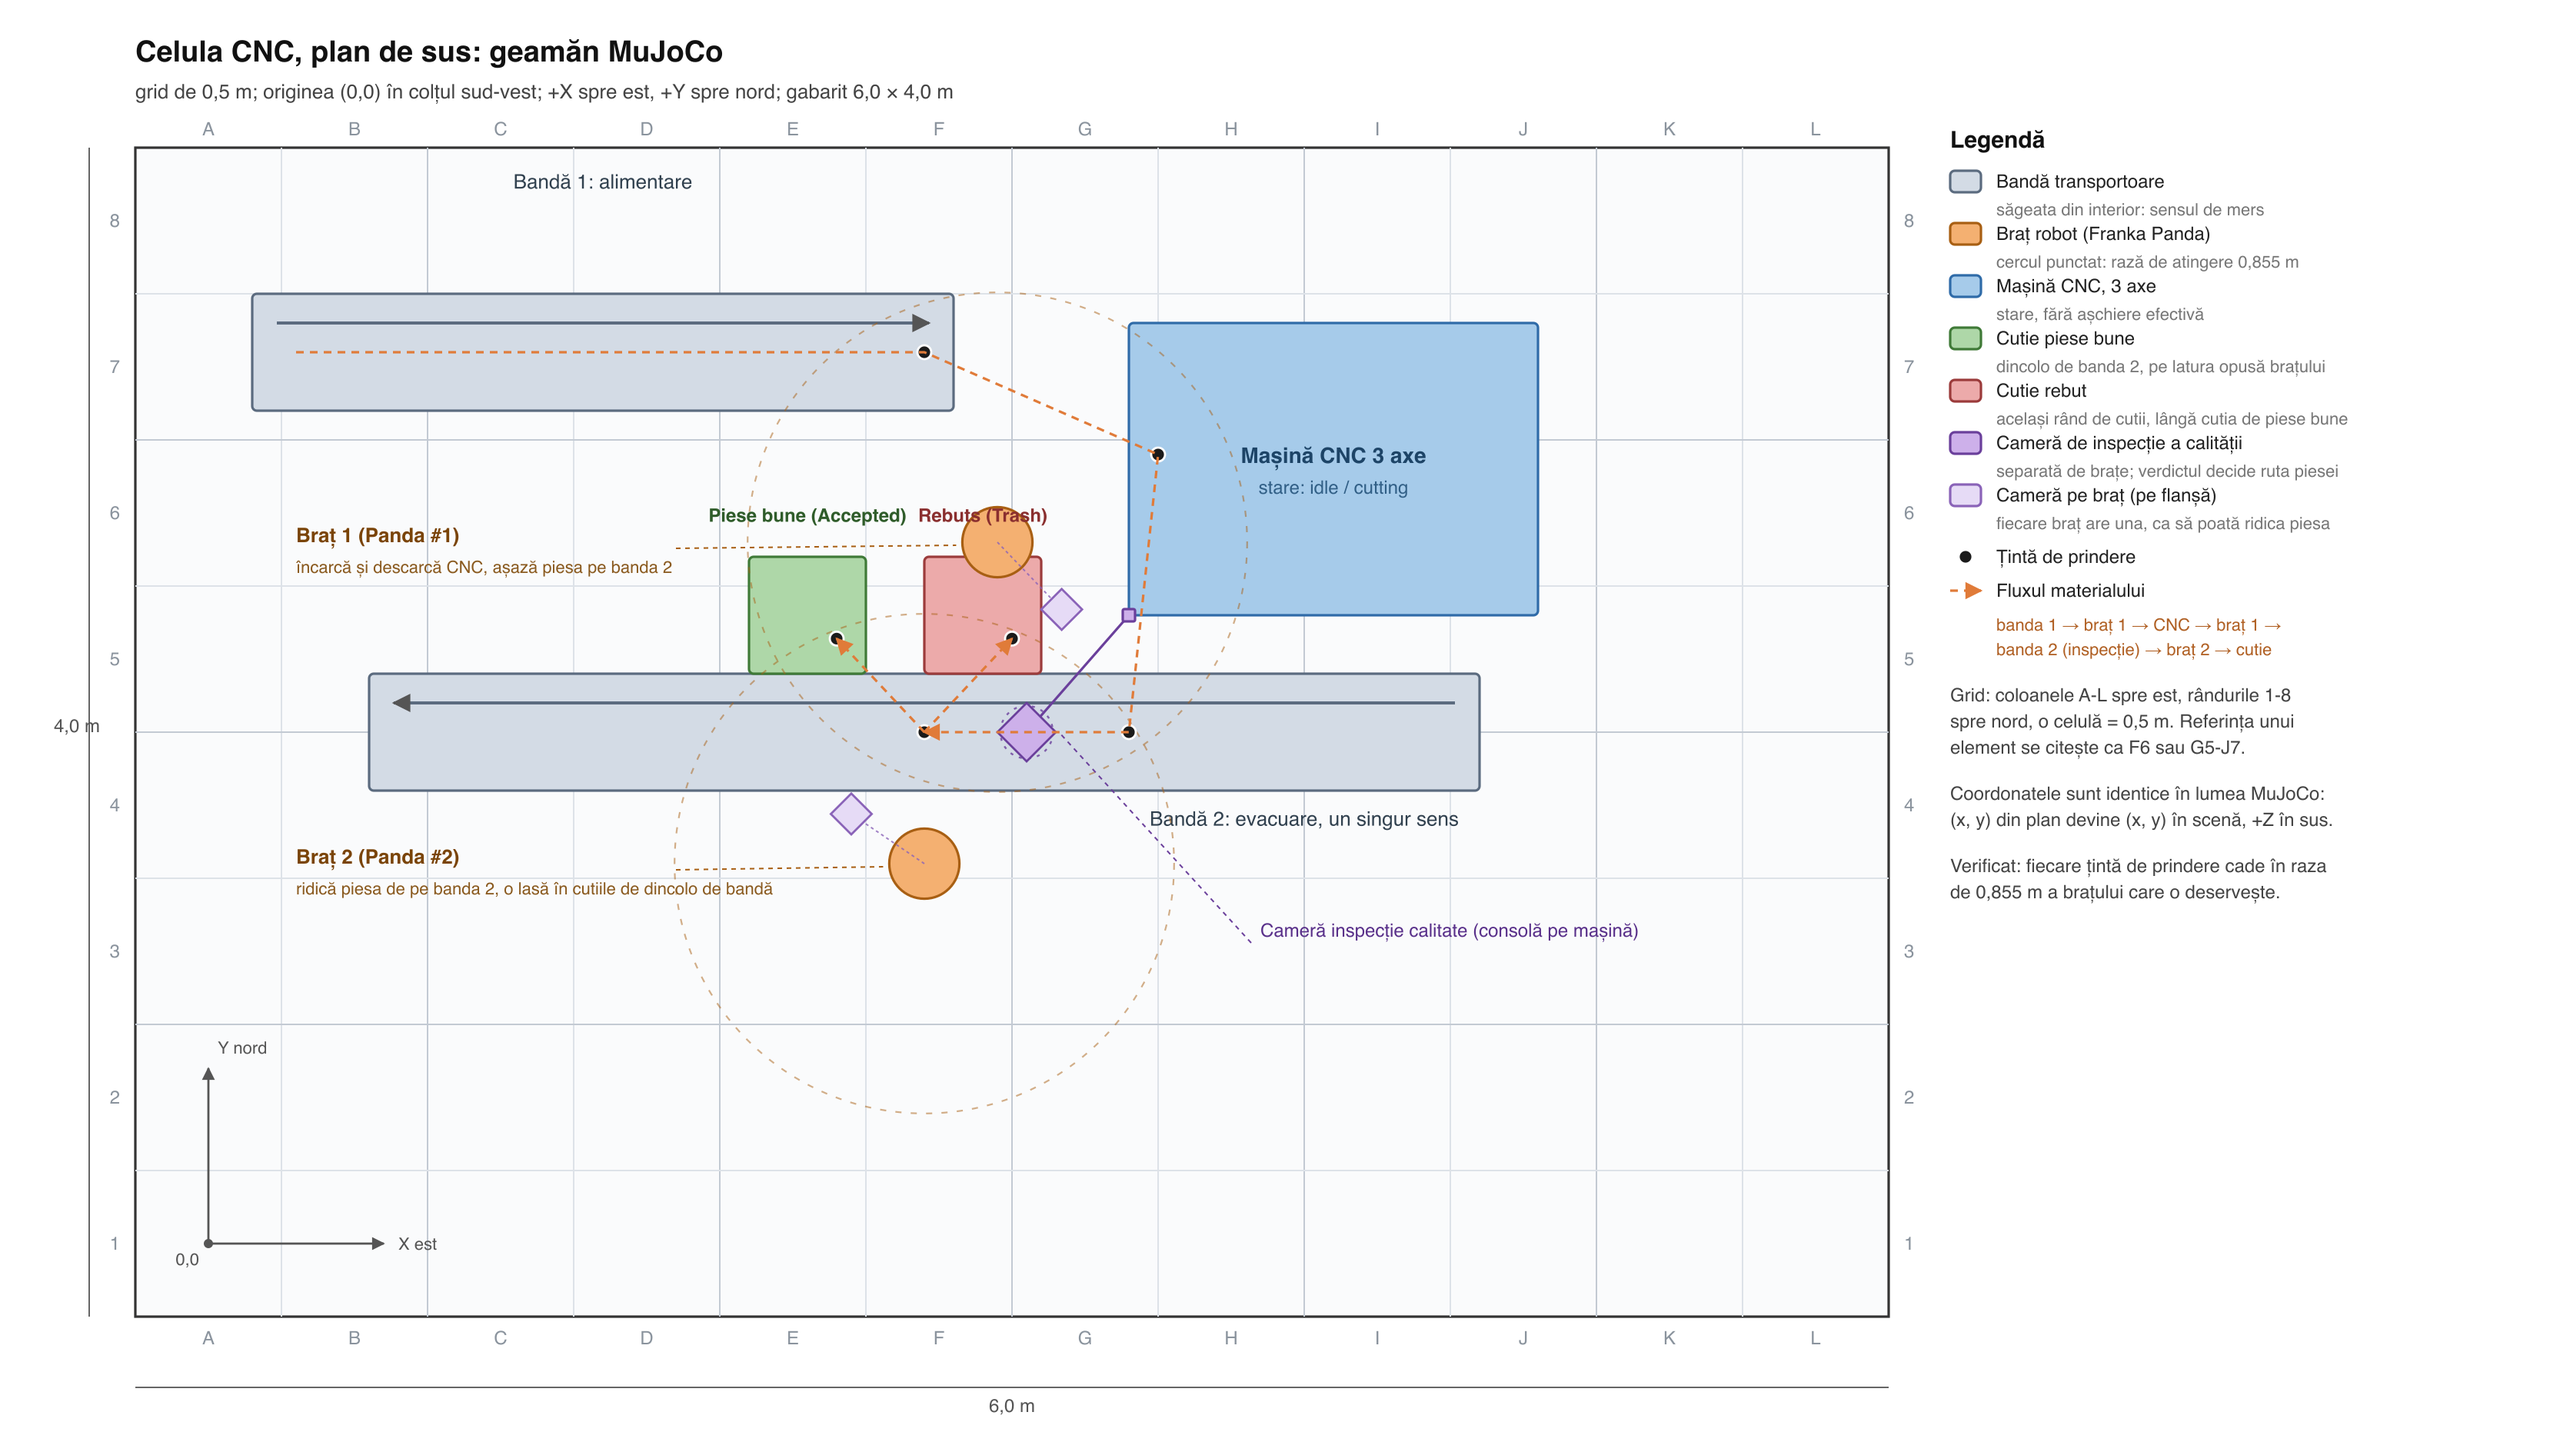
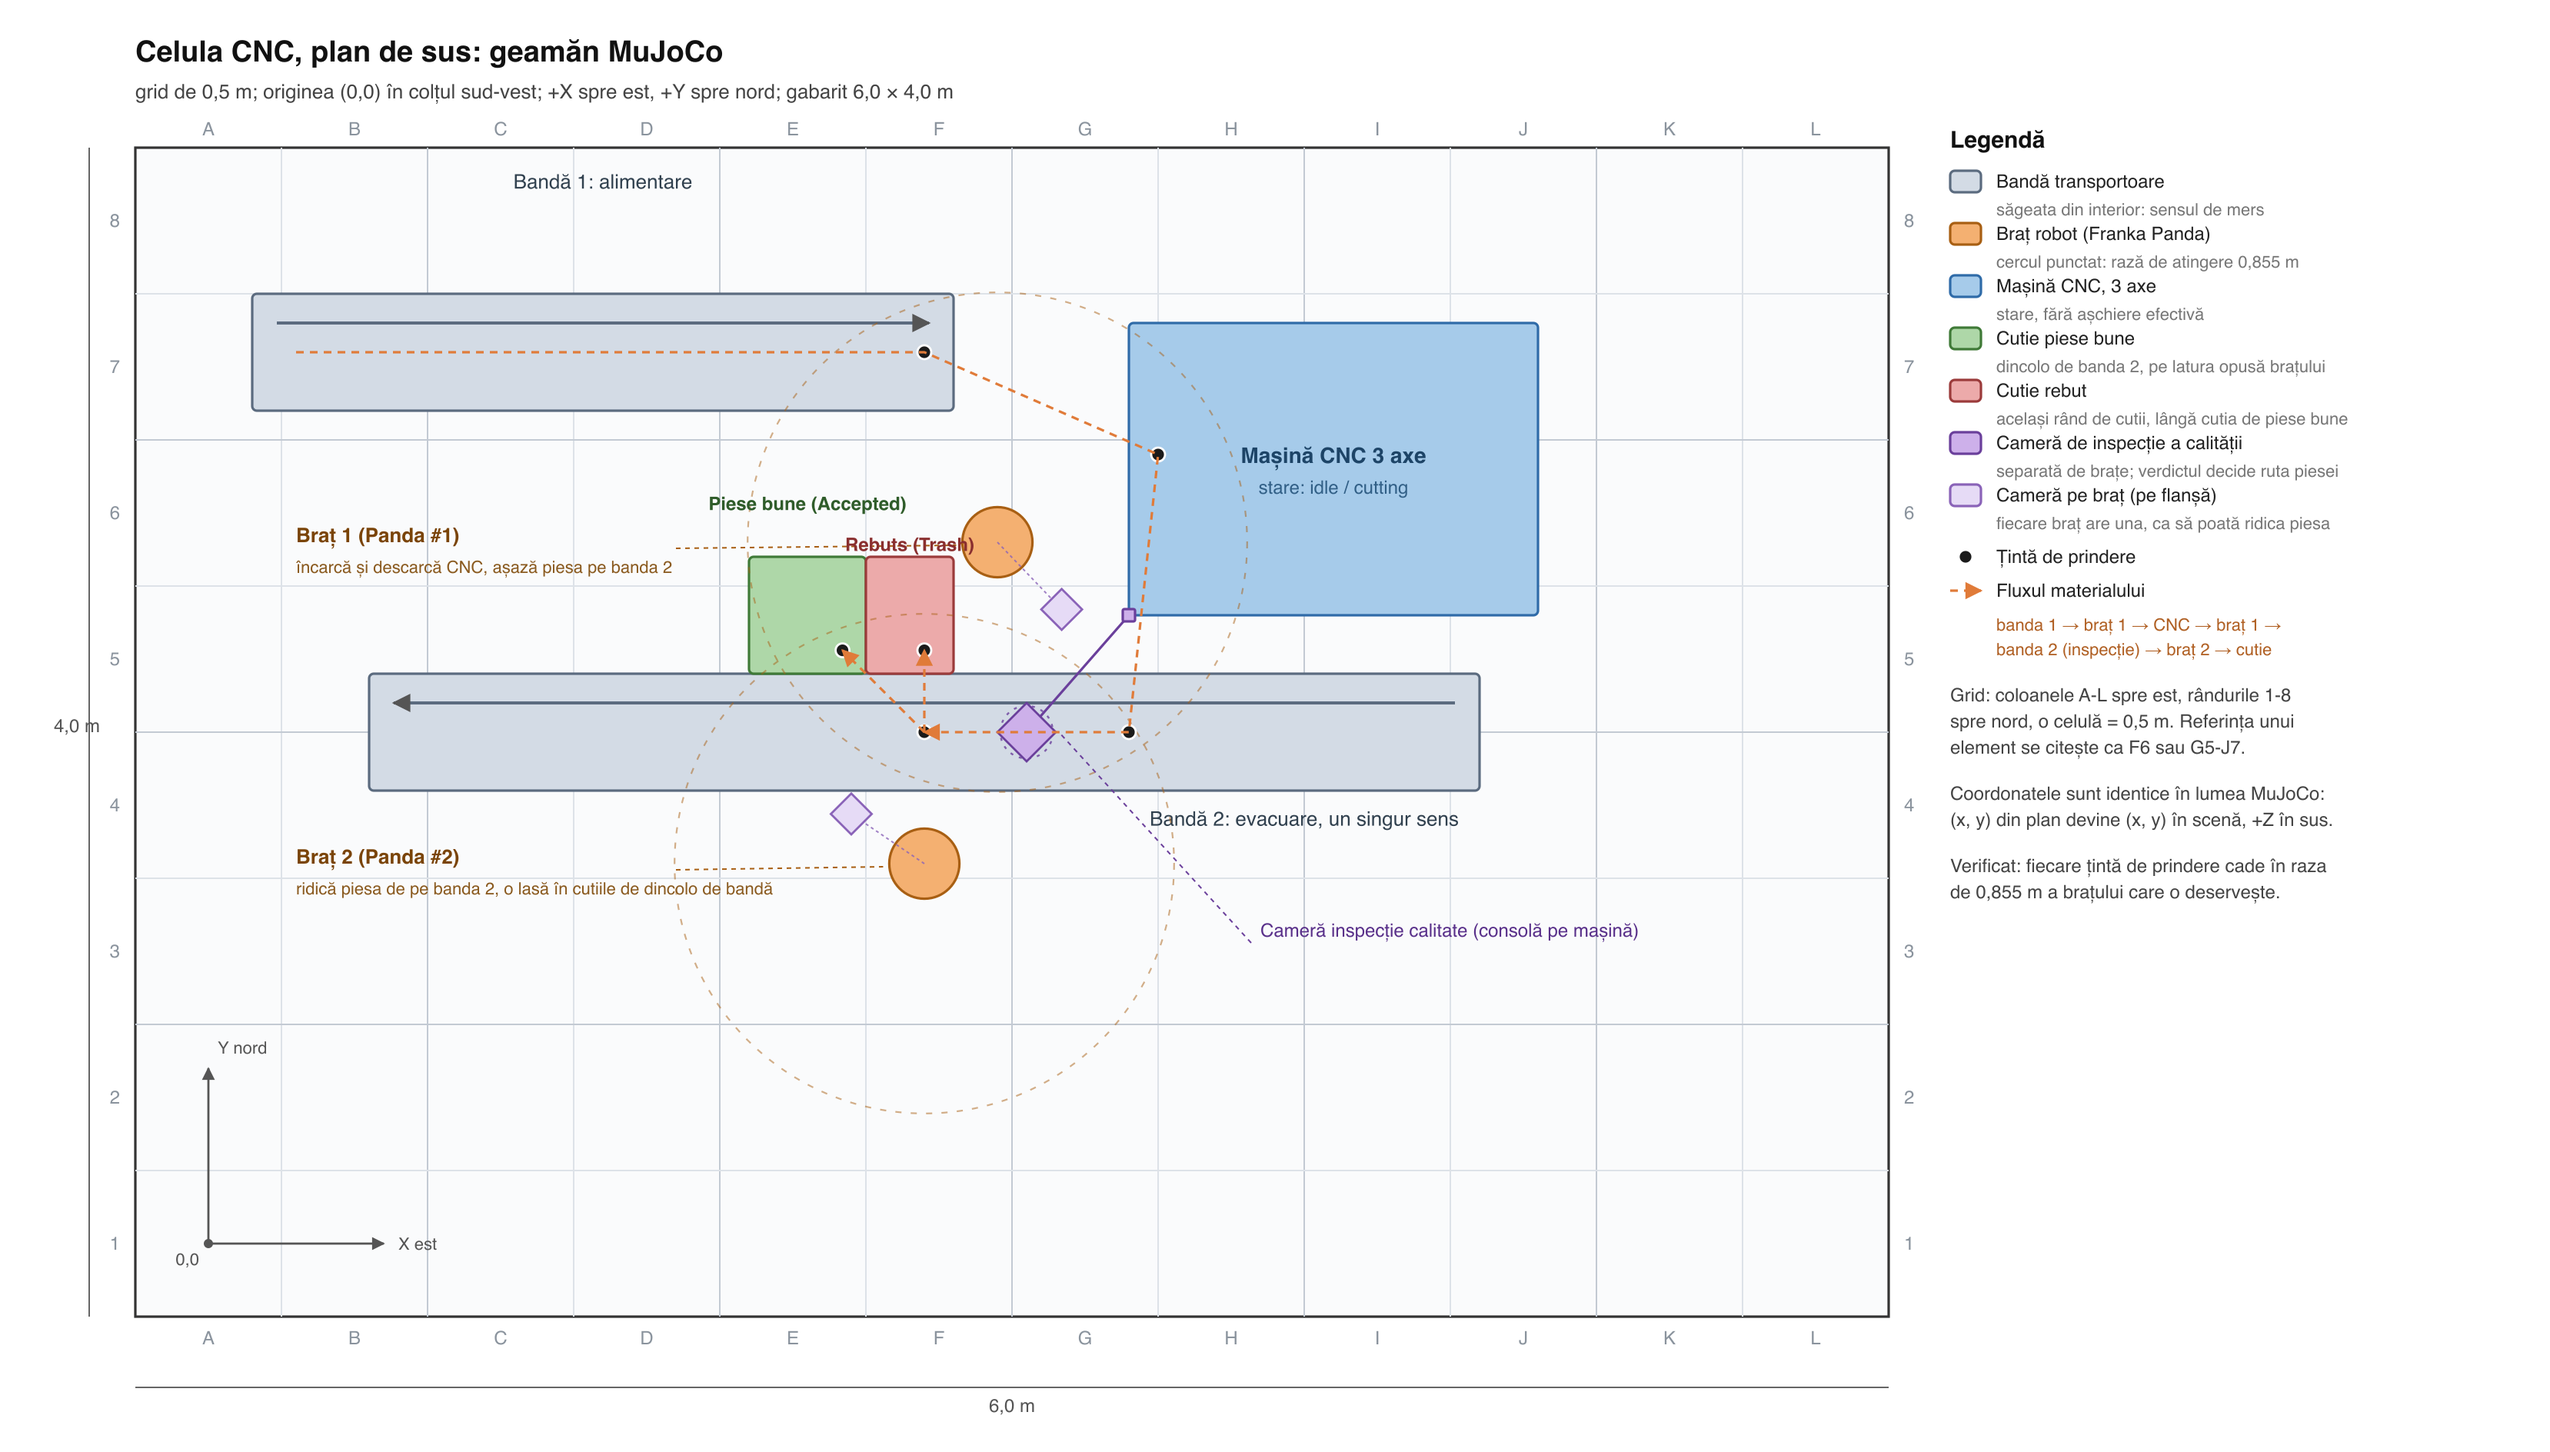
feat: ridică cutiile la nivelul benzii în geamănul MuJoCo
Cutiile stau acum cu marginea de sus la 0,85 m, adică la nivelul suprafeței benzii 2,
ca piesa să treacă din bandă în cutie fără să urce. Cota le aduce însă la umărul
brațului 1 și urcă gura peste baza brațului 2, deci s-a măsurat în scenă ce se
schimbă:

- cu ampuantele de 0,40 × 0,40 din plan, pereții cutiei de rebut intrau 45 mm în
  verigile brațului 1, iar punctele de așezare ieșeau la 0,879 m de baza brațului 2,
  peste raza de 0,855 m;
- cutia de rebut se îngustează la 0,30 m și se mută 0,20 m spre vest, la 2,50, iar
  punctele de așezare stau cât mai aproape de braț în cutia lor: 0,837 m (piese bune,
  lângă colțul de sud-est) și 0,789 m (rebut, chiar la nord de axul brațului), față de
  0,850 m cât era la cota veche de 0,35 m;
- golul dintre brațul 1 și cutii este +14 mm la poziția nominală, iar verificarea de
  scenă nu mai vede nicio atingere.

Planul celulei se regenerează odată cu cifrele, iar etichetele cutiilor se așază pe
centrul lor, ca să nu rămână în urmă. Documentul geamănului primește măsurătorile și
avertismentul că, la cinematică, brațele trebuie să ocolească fâșia cutiilor.

Verificat: make test, make mj-test, make mj-check (verde), make mj-render.

Changed region(s): [[0.2796, 0.3438, 0.4349, 0.4688]]

diff --git a/docs/diagrams/cell_layout.py b/docs/diagrams/cell_layout.py
@@ -5,8 +5,9 @@
 Fluxul materialului, în ordine: banda 1 alimentează dinspre vest, brațul 1 preia piesa și o
 încarcă în mașină; după ce mașina termină, tot brațul 1 o descarcă și o așază pe banda 2, care
 merge într-un singur sens spre vest. Brațul 2 stă la marginea sudică a benzii 2, iar cutiile sunt
-de partea cealaltă a benzii, pe latura nordică: brațul ridică piesa de pe bandă și o lasă în
-cutia potrivită fără să se întoarcă, fiindcă ambele ținte cad în același sector, spre nord.
+de partea cealaltă a benzii, pe latura nordică, cu marginea sus la nivelul benzii: brațul ia piesa
+de pe bandă și o lasă în cutia potrivită fără să se întoarcă și fără să urce, fiindcă ambele ținte
+cad în același sector, spre nord.
 Camera de inspecție a calității este separată de brațe și privește banda 2 înainte de brațul 2,
 ca verdictul să fie gata când piesa ajunge la el: axul ei optic stă peste bandă, iar capul
 atârnă de o consolă prinsă de mașină, pe deasupra anvelopei brațelor. Fiecare braț are în plus
@@ -53,9 +54,14 @@ BELT_IN = dict(name="infeed_conveyor", kind="belt", x=0.4, y=3.1, w=2.4, h=0.4, 
 BELT_OUT = dict(name="outfeed_conveyor", kind="belt", x=0.8, y=1.8, w=3.8, h=0.4, direction=-1,
                 caption="Bandă 2: evacuare, un singur sens", caption_at=(4.0, 1.68))
 CNC = dict(name="cnc_3axis", kind="cnc", x=3.4, y=2.4, w=1.4, h=1.0)
-# Cutiile stau lipite de latura nordică a benzii 2, adică dincolo de bandă față de brațul 2.
+# Cutiile stau lipite de latura nordică a benzii 2, adică dincolo de bandă față de brațul 2, cu
+# marginea de sus la nivelul suprafeței benzii, ca piesa să treacă din bandă în cutie fără să
+# urce. Cota le ridică până la umărul brațului 1, care lucrează deasupra capătului de est al
+# fâșiei: cu ampuantele de 0,40 × 0,40 din prima variantă, pereții cutiei de rebut intrau 45 mm
+# în verigile brațului 1, iar punctele de așezare ieșeau la 0,879 m de baza brațului 2, adică
+# peste raza de 0,855 m. De aceea cutia de rebut e mai îngustă și mai la vest.
 BIN_OK = dict(name="bin_accepted", kind="accepted", x=2.1, y=2.2, w=0.4, h=0.4)
-BIN_NG = dict(name="bin_trash", kind="trash", x=2.7, y=2.2, w=0.4, h=0.4)
+BIN_NG = dict(name="bin_trash", kind="trash", x=2.5, y=2.2, w=0.3, h=0.4)
 
 ARMS = [
     dict(key="arm1", name="arm1_cnc", x=2.95, y=2.65, reach=0.855,
@@ -87,16 +93,19 @@ TARGETS = [
     dict(name="cnc_chuck", key="arm1", x=3.5, y=2.95, label="încărcare/descărcare CNC"),
     dict(name="belt2_drop", key="arm1", x=3.4, y=2.0, label="așezare pe banda 2"),
     dict(name="belt2_pick", key="arm2", x=2.7, y=2.0, label="preluare de pe banda 2"),
-    dict(name="bin_ok", key="arm2", x=2.4, y=2.32, label="piesă bună în cutie"),
-    dict(name="bin_ng", key="arm2", x=3.0, y=2.32, label="rebut în cutie"),
+    # Punctul de așezare din fiecare cutie este locul cel mai apropiat de axul brațului 2 care
+    # lasă piesa de rază 0,052 m la 8 mm de pereți; la cutia de piese bune cade lângă colțul de
+    # sud-est, la cea de rebut chiar la nord de braț.
+    dict(name="bin_ok", key="arm2", x=2.42, y=2.28, label="piesă bună în cutie"),
+    dict(name="bin_ng", key="arm2", x=2.7, y=2.28, label="rebut în cutie"),
 ]
 
 # Fluxul materialului, ca polilinie punctată: bandă 1 -> braț 1 -> CNC -> braț 1 -> bandă 2
 # (trece prin dreptul camerei de inspecție) -> braț 2 -> cutia potrivită.
 FLOW = [(0.55, 3.3), (2.7, 3.3), (3.5, 2.95), (3.4, 2.0), (2.7, 2.0)]
 FLOW_BRANCHES = [
-    [(2.7, 2.0), (2.4, 2.32)],
-    [(2.7, 2.0), (3.0, 2.32)],
+    [(2.7, 2.0), (2.42, 2.28)],
+    [(2.7, 2.0), (2.7, 2.28)],
 ]
 
 PLAN_W = CELL_W * SCALE
@@ -295,9 +304,12 @@ def build_svg() -> str:
         svg.append('<circle cx="%.1f" cy="%.1f" r="4.5" fill="#1b1b1b" stroke="#ffffff" '
                    'stroke-width="1.4"/>' % (px(target["x"]), py(target["y"])))
 
-    # Cutiile stau dincolo de bandă, pe latura opusă brațului 2: etichetele intră deasupra.
-    svg.append(text(px(2.3), py(2.72), "Piese bune (Accepted)", 12, "middle", "#2f5c2a", "bold"))
-    svg.append(text(px(2.9), py(2.72), "Rebuts (Trash)", 12, "middle", "#8a2f2f", "bold"))
+    # Cutiile stau dincolo de bandă, pe latura opusă brațului 2. Sunt înguste și alăturate, deci
+    # textele lungi nu încap unul lângă altul: intră unul peste altul, fiecare pe centrul cutiei
+    # lui, ca să nu rămână în urmă când i se schimbă amprenta.
+    for item, label, color, y in ((BIN_OK, "Piese bune (Accepted)", "#2f5c2a", 2.76),
+                                  (BIN_NG, "Rebuts (Trash)", "#8a2f2f", 2.62)):
+        svg.append(text(px(item["x"] + item["w"] / 2), py(y), label, 12, "middle", color, "bold"))
 
     # Fluxul materialului.
     svg.append(polyline(FLOW, marker=True))

diff --git a/simulation/mujoco/cncdt_mj/layout.py b/simulation/mujoco/cncdt_mj/layout.py
@@ -63,8 +63,11 @@ BELT_SURFACE_Z = 0.85
 MACHINE_TABLE_Z = 0.75
 #: Capacul de protecție: `docs/11-geaman-mujoco.md` §2.
 MACHINE_COVER_Z = 1.90
-#: Marginea de sus a cutiilor: `docs/11-geaman-mujoco.md` §2.
-BIN_RIM_Z = 0.35
+#: Marginea de sus a cutiilor: `docs/11-geaman-mujoco.md` §2. Stă la nivelul suprafeței benzii,
+#: ca piesa să treacă din bandă în cutie fără să urce. Cota este și limita de atingere a
+#: brațului 2 — vârful se ridică peste baza lui (0,55 m) —, deci punctele de așezare din cutii
+#: stau lipite de pereții de sud și de est (`docs/diagrams/cell_layout.py`).
+BIN_RIM_Z = BELT_SURFACE_Z
 #: Baza brațelor, pe piedestal: `docs/11-geaman-mujoco.md` §2.
 ARM_BASE_Z = 0.55
 #: Înălțimea documentată a camerelor, orientate în jos: `docs/11-geaman-mujoco.md` §2.
@@ -109,7 +112,8 @@ DOCUMENTED_HEIGHTS: tuple[DocumentedHeight, ...] = (
     DocumentedHeight("belt_surface", BELT_SURFACE_Z, "benz", "suprafețele de lucru ale benzilor"),
     DocumentedHeight("machine_table", MACHINE_TABLE_Z, "mașin", "masa mașinii"),
     DocumentedHeight("machine_cover", MACHINE_COVER_Z, "capac", "capacul de protecție"),
-    DocumentedHeight("bin_rim", BIN_RIM_Z, "marginea", "cutiile pe podea, cu marginea"),
+    DocumentedHeight("bin_rim", BIN_RIM_Z, "marginea",
+                     "cutiile pe podea, cu marginea la nivelul suprafeței benzii 2"),
     DocumentedHeight("arm_base", ARM_BASE_Z, "piedestal", "baza brațelor pe piedestal"),
     DocumentedHeight("camera", CAMERA_Z, "camer", "camerele"),
 )

diff --git a/simulation/mujoco/README.md b/simulation/mujoco/README.md
@@ -110,9 +110,9 @@ din scenă (comparat pe cerc, deci 348,5° și −11,5° sunt același unghi).
 
 Țintele de prindere, măsurate **în spațiu** de la baza brațului, față de raza de 0,855 m din plan:
 brațul 1 ajunge la 0,758 m (preluare bandă 1), 0,671 m (mașină) și 0,846 m (așezare bandă 2);
-brațul 2 la 0,541 m (preluare bandă 2) și 0,850 m (fiecare cutie). Planul măsoară doar în plan, iar
-`docs/11-geaman-mujoco.md` spune explicit că o țintă poate părea la îndemână în desen și să fie
-prea sus — verificarea de aici este cea în spațiu.
+brațul 2 la 0,541 m (preluare bandă 2), 0,837 m (cutia de piese bune) și 0,789 m (cutia de rebut).
+Planul măsoară doar în plan, iar `docs/11-geaman-mujoco.md` spune explicit că o țintă poate părea
+la îndemână în desen și să fie prea sus — verificarea de aici este cea în spațiu.
 
 Se mai verifică trei lucruri la camera de inspecție: degajarea față de ambele brațe (poziția
 nominală plus `--samples` configurații eșantionate, prag 0,02 m), încadrarea piesei — distanța,
